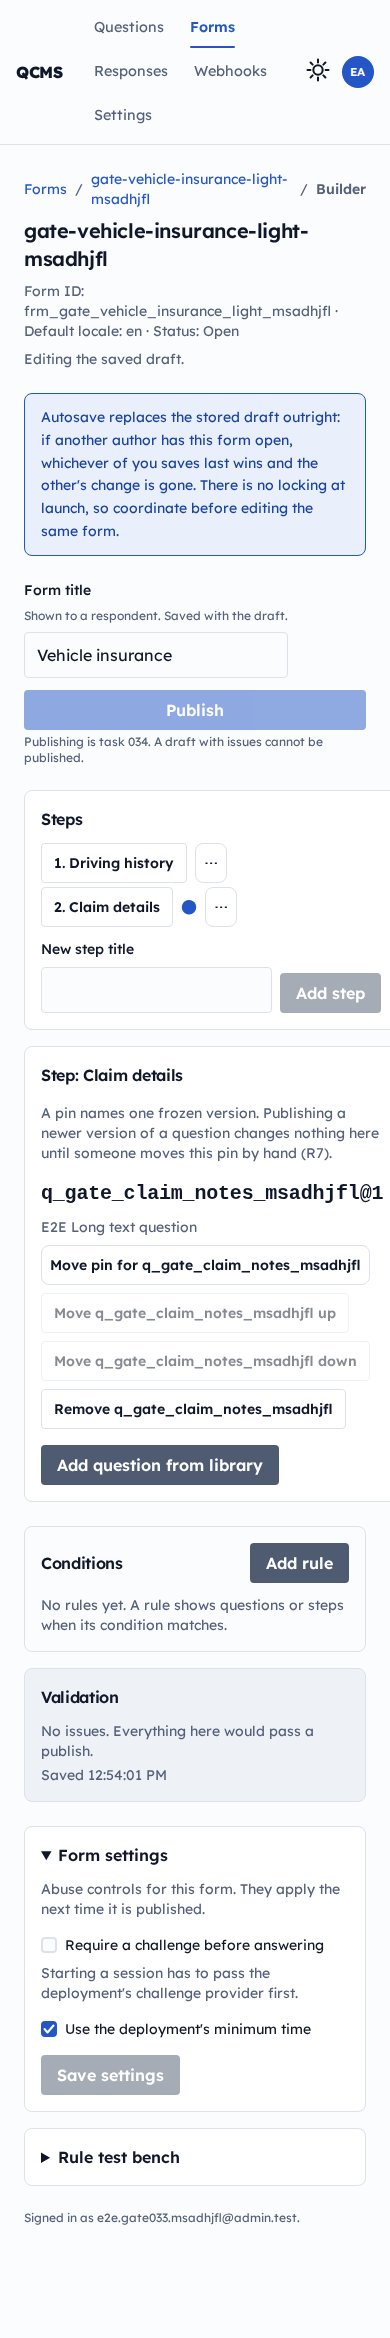
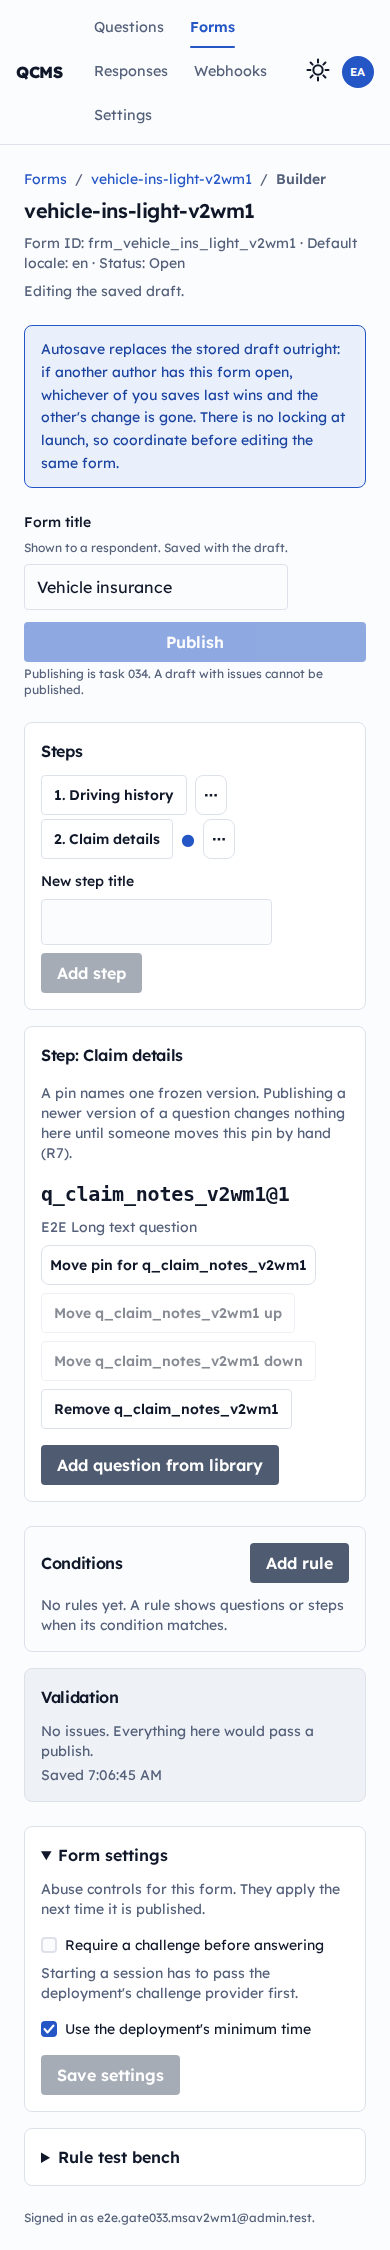
fix(admin): 033 re-capture the gate frames at a true 390px
The capture fixtures minted 27-character question ids and a
29-character rule id from a full base36 timestamp. Measured at a 390px
viewport, that gave a 435px document in the two rule-card states, so
six frames were written 434px wide while their filenames, the gate
README and the PR body all said 390px.

Realistic ids do not overflow: 19 and 16 character ids, the lengths of
the canonical q_at_fault_accident and q_accident_count, measure 390px
in all four captured states with no code change. The slugs now carry a
5-character tail, keeping the ids at the canonical length while staying
unique against the persistent e2e database.

All 24 frames re-captured: 12 at exactly 390px, 12 at exactly 1280px.

diff --git a/apps/admin/e2e/gate-screenshots-033.pw.ts b/apps/admin/e2e/gate-screenshots-033.pw.ts
@@ -53,8 +53,33 @@ const EMAIL = uniqueAdminEmail("gate033");
 const capture = captureInto("docs/gates/033");
 const RUN = Date.now().toString(36);
 
-const COVER = `gate-cover-level-${RUN}`;
-const NOTES = `gate-claim-notes-${RUN}`;
+/**
+ * The captured questions' slugs, sized to what an author actually types.
+ *
+ * These used to be `gate-cover-level-${RUN}` with the full 8-character base36 timestamp,
+ * minting 27-character question ids and a 29-character rule id. Nothing in the repo is that
+ * long: `q_at_fault_accident` (19) and `q_accident_count` (16) are the canonical ids in
+ * `docs/wireframes/admin-form-builder.md`. The extra characters were pure test scaffolding,
+ * and they pushed the rule card past the 390px viewport, so six frames came out 434px wide
+ * while their filenames said 390 (PR #245 review). Measured at a 390px viewport: 19/16-char
+ * ids give a 390px document in all four captured states, the 27-char ids gave 435px.
+ *
+ * So the tail is trimmed to 5 characters, which keeps the ids at exactly the canonical
+ * length (`q_cover_level_XXXXX` is 19, `rul_cover_level_XXXXX` is 21) while still making
+ * each run unique: the e2e database persists between runs and R6 refuses a reused id. Five
+ * base36 characters of the millisecond clock repeat about every 17 hours, and a collision
+ * fails loudly with the R6 message rather than silently.
+ *
+ * A longer id overflowing is a real and separate finding, raised for the Code Owner rather
+ * than fixed here: an author's id is unbounded, `overflow-wrap: anywhere` on
+ * `.qcms-question-id` alone only takes 435px down to 403px (measured), and deciding how the
+ * builder should render a very long id at a phone width is a design question, not a
+ * review-fix. `captureInto` now refuses to shoot an overflowing frame either way, so the
+ * evidence can no longer misdescribe itself while that is decided.
+ */
+const TAIL = RUN.slice(-5);
+const COVER = `cover-level-${TAIL}`;
+const NOTES = `claim-notes-${TAIL}`;
 
 /** Set by the first test, which enrolls the account the rest sign in with. */
 let totpSecret = "";
@@ -93,7 +118,9 @@ for (const mode of CAPTURE_MODES) {
     await page.goto("/forms");
     await capture(page, `form-library-${mode}`);
 
-    await createForm(page, `gate-vehicle-insurance-${mode}-${RUN}`, "Vehicle insurance");
+    // Same sizing argument as COVER/NOTES above: `frm_vehicle_ins_light_XXXXX` rather than a
+    // full timestamp, so the library row and the builder header show a plausible id.
+    await createForm(page, `vehicle-ins-${mode}-${TAIL}`, "Vehicle insurance");
     await addStep(page, "Driving history");
     await pinQuestion(page, questionIdFor(COVER), 1);
     await addStep(page, "Claim details");
